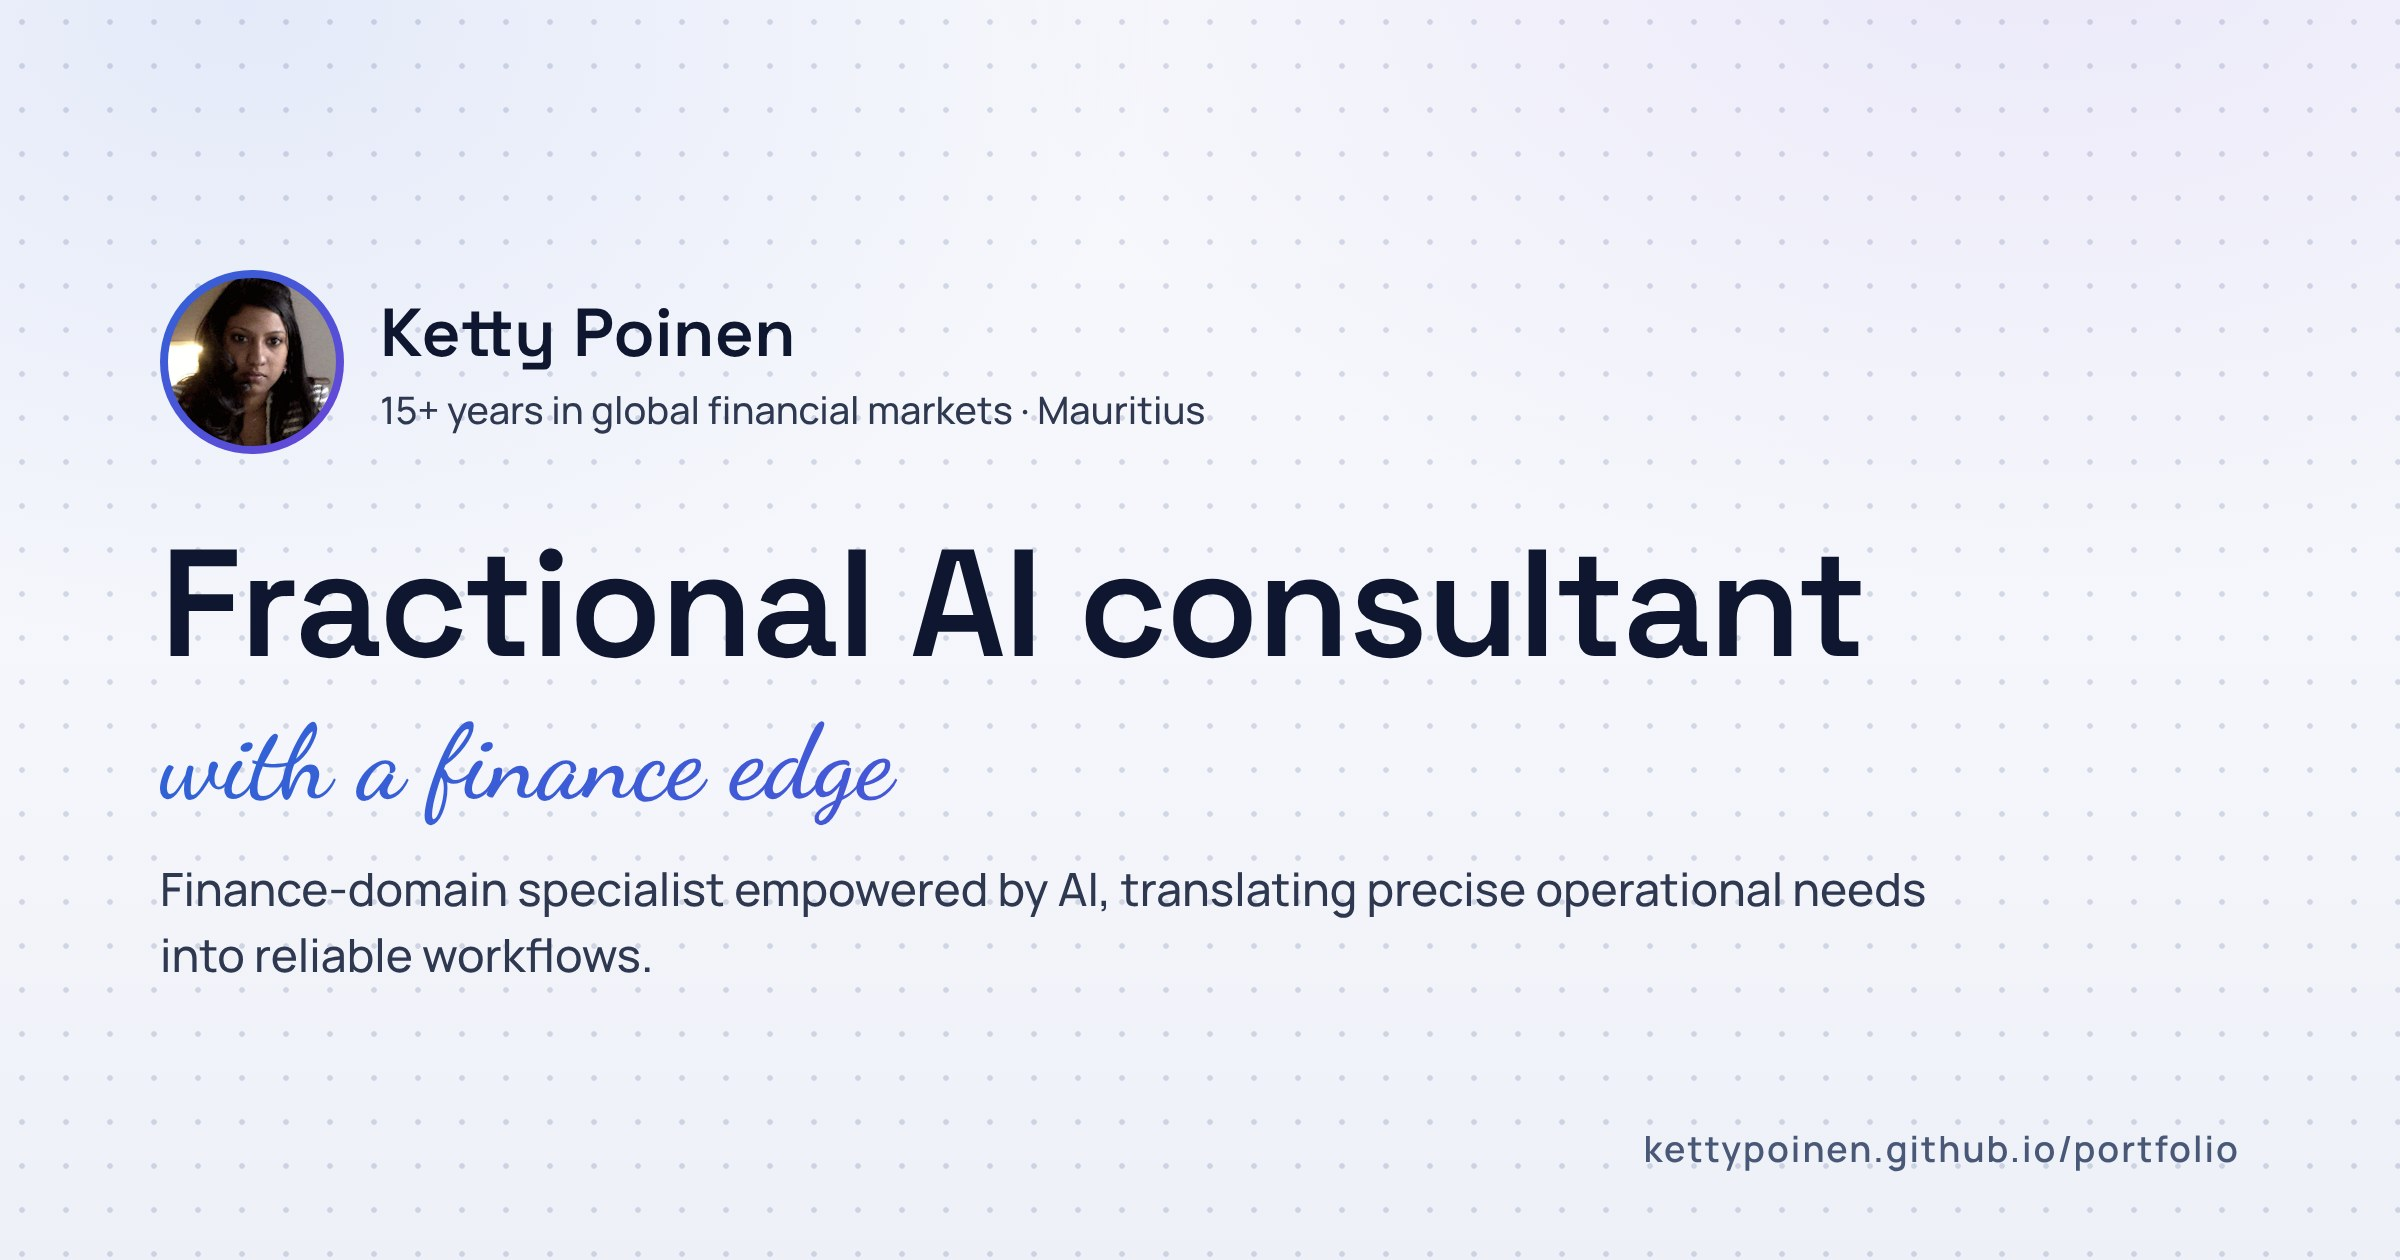
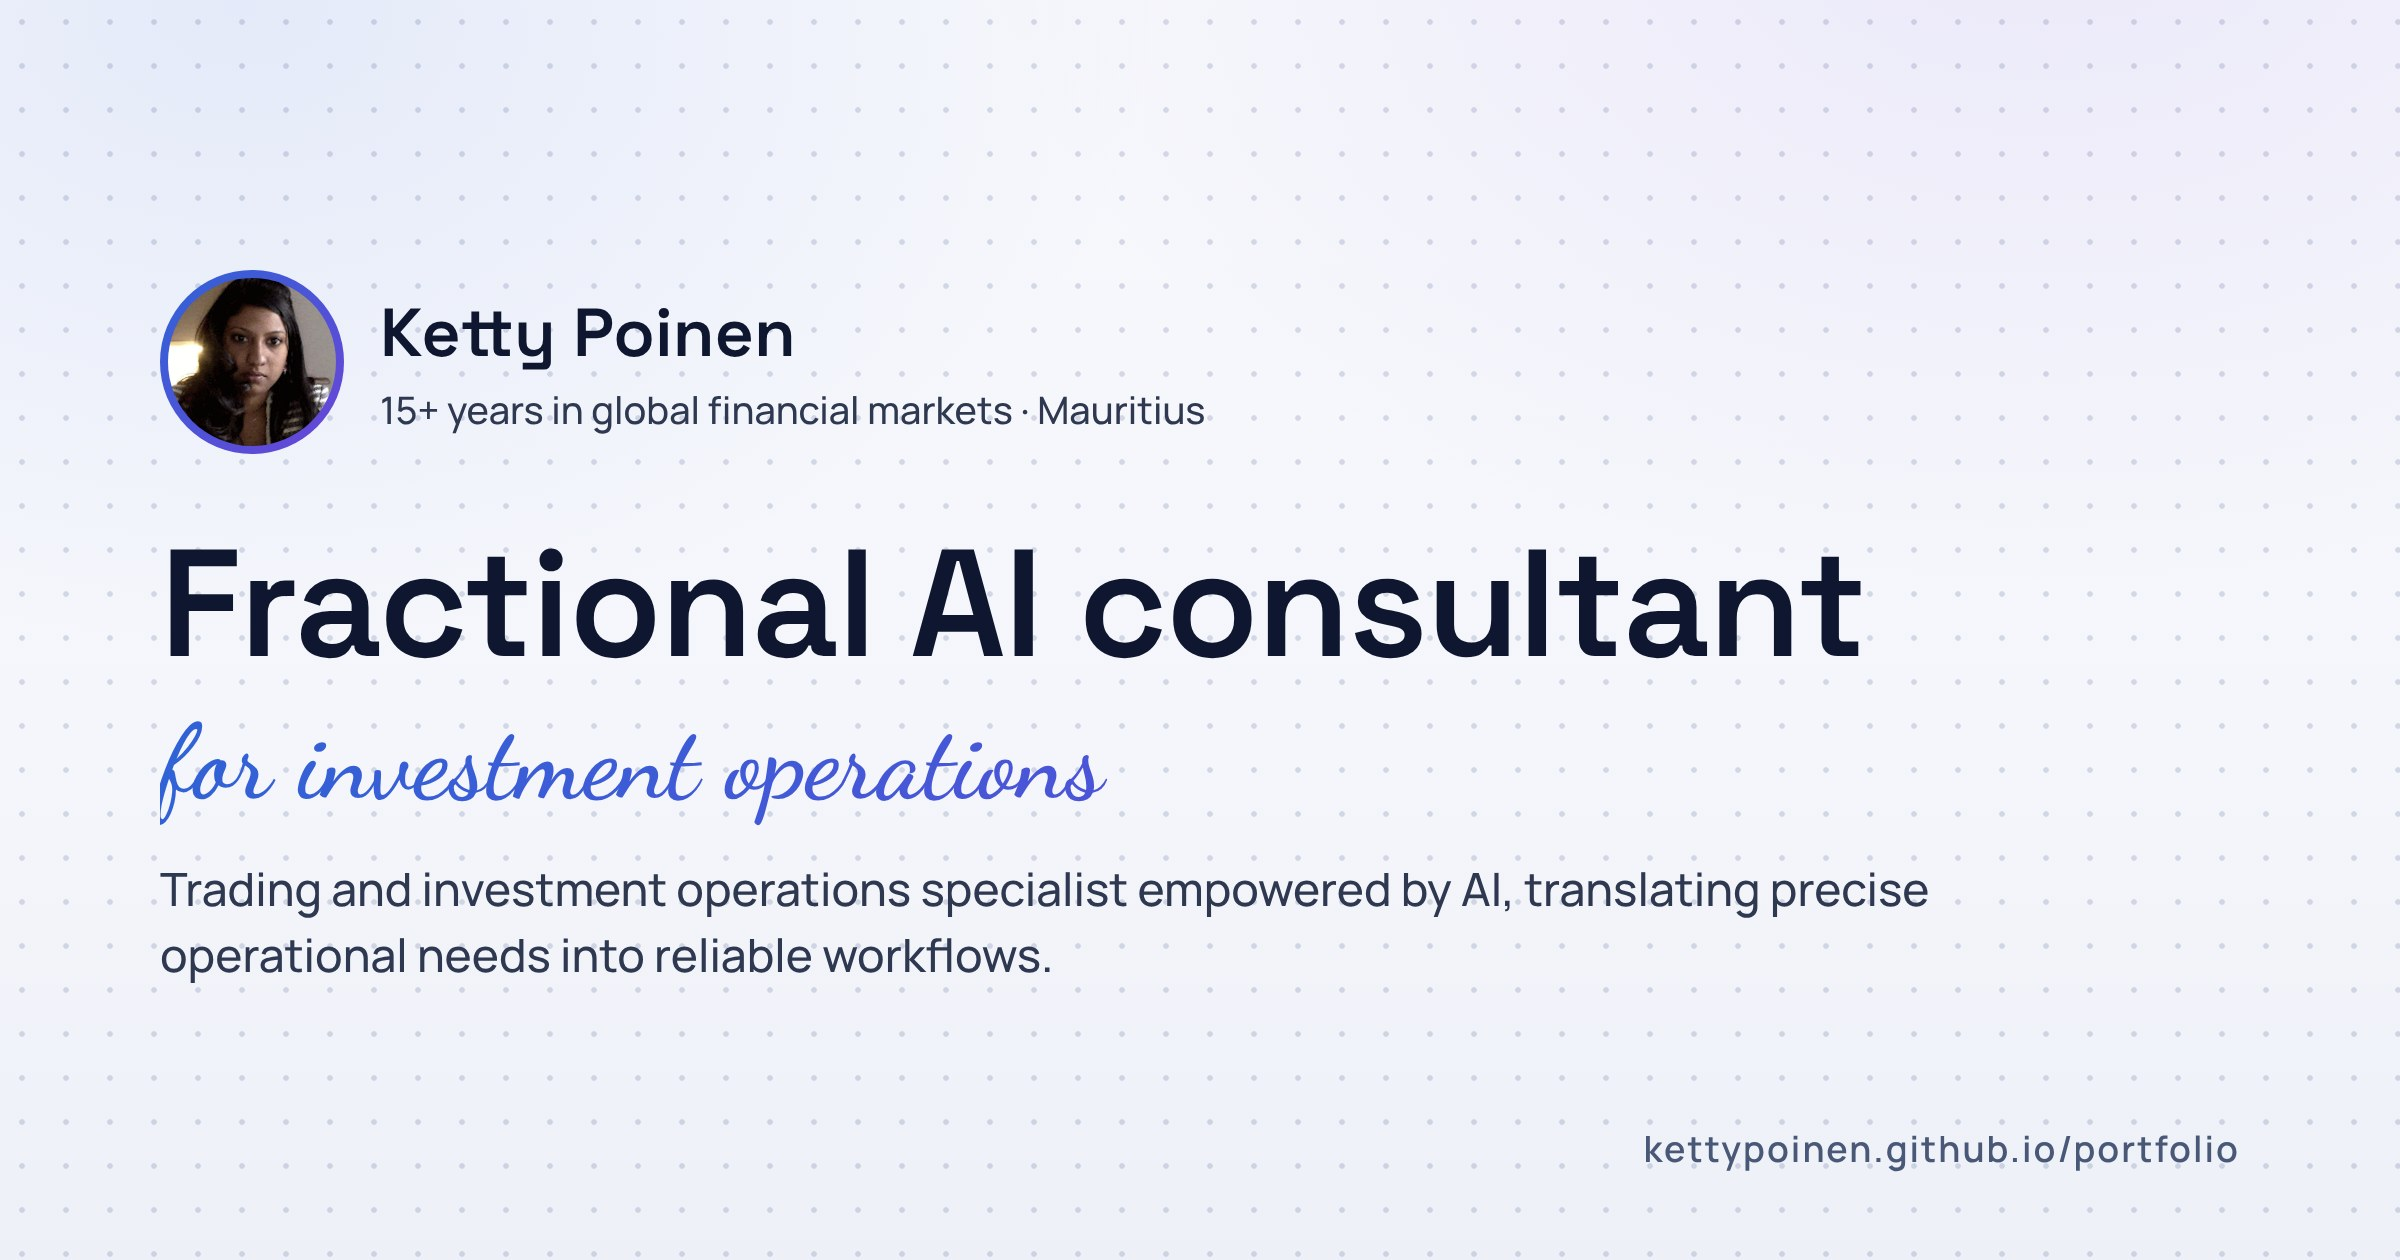
Reposition on investment operations instead of "finance"
- Hero: "Fractional AI consultant / for investment operations"; subline names trading and investment operations
- Section titles: "Builds for trading, investment and payments workflows" and "Investment Operations x AI"
- What I bring: "The trade lifecycle, first-hand."
- Tab title, Google and share-preview text, search data, /light page and thank-you page updated to match
- Dark and light share images remade with the new headline
- Script line gets a taller line box so the tail of the f is no longer clipped in Safari

Claude-Session: https://claude.ai/code/session_01W985EbHYUwzDVtV5LiYetL

Changed region(s): [[0.0625, 0.681, 0.8125, 0.7738], [0.0625, 0.5571, 0.4688, 0.65]]

diff --git a/index.html b/index.html
@@ -3,23 +3,23 @@
 <head>
 <meta charset="utf-8">
 <meta name="viewport" content="width=device-width, initial-scale=1, viewport-fit=cover">
-<title>Ketty Poinen · AI for financial workflows</title>
-<meta name="description" content="Ketty Poinen, fractional AI consultant for financial firms: 15+ years in trade execution and investment operations, now building reliable AI workflows.">
+<title>Ketty Poinen · AI for investment workflows</title>
+<meta name="description" content="Ketty Poinen, fractional AI consultant for investment and trading firms: 15+ years in trade execution and investment operations, now building reliable AI workflows.">
 <meta name="author" content="Ketty Poinen">
 <meta name="google-site-verification" content="49rioOYLQ7e49KPLcGNPdiEZJiLtNaxYbbQbI4A1nBM">
 <meta property="og:type" content="website">
-<meta property="og:title" content="Ketty Poinen · Fractional AI consultant with a finance edge">
-<meta property="og:description" content="15+ years in trade execution and investment operations, now building reliable AI workflows for financial firms.">
+<meta property="og:title" content="Ketty Poinen · Fractional AI consultant for investment operations">
+<meta property="og:description" content="15+ years in trade execution and investment operations, now building reliable AI workflows for investment and trading firms.">
 <meta name="twitter:card" content="summary_large_image">
 <link rel="canonical" href="https://kettypoinen.github.io/portfolio/">
 <meta property="og:url" content="https://kettypoinen.github.io/portfolio/">
 <meta property="og:image" content="https://kettypoinen.github.io/portfolio/assets/share.jpg">
 <meta property="og:image:width" content="2400">
 <meta property="og:image:height" content="1260">
-<meta property="og:image:alt" content="Ketty Poinen, fractional AI consultant with a finance edge">
+<meta property="og:image:alt" content="Ketty Poinen, fractional AI consultant for investment operations">
 <meta name="twitter:image" content="https://kettypoinen.github.io/portfolio/assets/share.jpg">
 <script type="application/ld+json">
-{"@context":"https://schema.org","@type":"Person","name":"Ketty Poinen","jobTitle":"Fractional AI consultant","description":"Fractional AI consultant for financial firms: 15+ years in trade execution and investment operations, now building reliable AI workflows.","url":"https://kettypoinen.github.io/portfolio/","image":"https://kettypoinen.github.io/portfolio/assets/profile.jpg","address":{"@type":"PostalAddress","addressCountry":"MU"},"knowsLanguage":["en","fr"],"sameAs":["https://www.linkedin.com/in/kettypoinen/","https://github.com/kettypoinen"]}
+{"@context":"https://schema.org","@type":"Person","name":"Ketty Poinen","jobTitle":"Fractional AI consultant","description":"Fractional AI consultant for investment and trading firms: 15+ years in trade execution and investment operations, now building reliable AI workflows.","url":"https://kettypoinen.github.io/portfolio/","image":"https://kettypoinen.github.io/portfolio/assets/profile.jpg","address":{"@type":"PostalAddress","addressCountry":"MU"},"knowsLanguage":["en","fr"],"sameAs":["https://www.linkedin.com/in/kettypoinen/","https://github.com/kettypoinen"]}
 </script>
 <link rel="icon" type="image/svg+xml" href="assets/favicon.svg">
 <link rel="preconnect" href="https://fonts.googleapis.com">
@@ -101,7 +101,8 @@ body::before{content:"";position:fixed;inset:0 0 auto;height:max(8px,env(safe-ar
 .eyebrow{display:inline-flex;align-items:center;gap:10px;padding:7px 15px;border-radius:999px;border:1px solid var(--line);background:var(--eyebrow-bg);font-size:12.5px;line-height:1.3;letter-spacing:2px;text-transform:uppercase;color:var(--label);font-weight:600}
 .eyebrow i{width:6px;height:6px;border-radius:50%;background:var(--blue);box-shadow:0 0 10px 2px var(--glow);flex:none}
 /* the specialty, handwritten under the heading */
-.edge{margin-top:-20px;padding:0 .15em .22em;margin-bottom:-.22em;font:600 clamp(25.2px,3.15vw,33.6px)/1.1 'Dancing Script',cursive;background:var(--grad);-webkit-background-clip:text;background-clip:text;color:transparent}
+/* taller line box and extra padding so the script's loops and tails (the f, g, p) are never clipped, Safari included; margins keep the position */
+.edge{margin-top:calc(-20px - .2em);padding:0 .3em .3em;margin-bottom:-.5em;font:600 clamp(25.2px,3.15vw,33.6px)/1.5 'Dancing Script',cursive;background:var(--grad);-webkit-background-clip:text;background-clip:text;color:transparent}
 .tagline{margin-top:4px;max-width:40em;color:var(--tag);font-size:clamp(17px,2vw,20px);line-height:1.5;text-align:center}
 
 /* shared bits */
@@ -265,8 +266,8 @@ dialog::backdrop{background:var(--backdrop);backdrop-filter:blur(6px)}
   <section class="intro">
     <span class="eyebrow"><i aria-hidden="true"></i>15+Yrs Global Financial Markets | FinTech Consulting | DeFi Practitioner | AI Workflow Builder<i aria-hidden="true"></i></span>
     <h1>Fractional AI consultant</h1>
-    <p class="edge">with a finance edge</p>
-    <p class="tagline">I am the finance-domain specialist empowered by AI<br>who translates precise operational needs into reliable workflows.</p>
+    <p class="edge">for investment operations</p>
+    <p class="tagline">I am the trading and investment operations specialist empowered by AI,<br>who translates precise operational needs into reliable workflows.</p>
   </section>
 
   <section class="sec" aria-labelledby="skills-h">
@@ -283,7 +284,7 @@ dialog::backdrop{background:var(--backdrop);backdrop-filter:blur(6px)}
   </section>
 
   <section class="sec" aria-labelledby="more-h">
-    <h2 id="more-h">Builds for financial workflows</h2>
+    <h2 id="more-h">Builds for trading, investment and payments workflows</h2>
     <div class="grid">
       <article class="card">
         <div class="shot"><img loading="lazy" src="assets/shots/wheel-cover.jpg" alt="Tasty Wheel cover: the options wheel of cash-secured puts, assignment and covered calls, Telegram alerts on the left, and a rules and risk gate before execution, with an AI narrator that only explains"><span>Hackathon video cover</span></div>
@@ -375,12 +376,12 @@ dialog::backdrop{background:var(--backdrop);backdrop-filter:blur(6px)}
   </section>
 
   <section class="sec" aria-labelledby="offer-h">
-    <h2 id="offer-h">Finance x AI</h2>
+    <h2 id="offer-h">Investment Operations x AI</h2>
     <div class="two">
       <div class="panel">
         <span class="kicker">What I bring</span>
         <ul>
-          <li><b>Financial operations, first-hand.</b> 15+ years in trade execution, investment operations and UCITS funds: I know the hand-offs, exceptions and controls technology must handle.</li>
+          <li><b>The trade lifecycle, first-hand.</b> 15+ years in trade execution, investment operations and UCITS funds: I know the hand-offs, exceptions and controls technology must handle.</li>
           <li><b>Traditional and decentralised finance.</b> Grounded in traditional markets, active in DeFi, and following developments in real-world asset (RWA) tokenisation.</li>
           <li><b>A bridge between business and technology.</b> Operational needs become specs and test scenarios, and nothing ships until it passes acceptance testing.</li>
         </ul>

diff --git a/light/index.html b/light/index.html
@@ -3,18 +3,18 @@
 <head>
 <meta charset="utf-8">
 <meta name="viewport" content="width=device-width, initial-scale=1">
-<title>Ketty Poinen · AI for financial workflows</title>
+<title>Ketty Poinen · AI for investment workflows</title>
 <meta name="author" content="Ketty Poinen">
-<meta name="description" content="Ketty Poinen, fractional AI consultant for financial firms: 15+ years in trade execution and investment operations, now building reliable AI workflows.">
+<meta name="description" content="Ketty Poinen, fractional AI consultant for investment and trading firms: 15+ years in trade execution and investment operations, now building reliable AI workflows.">
 <!-- Share link for the light version: previews show the light image, visitors are sent on to the page in light mode -->
 <meta property="og:type" content="website">
-<meta property="og:title" content="Ketty Poinen · Fractional AI consultant with a finance edge">
-<meta property="og:description" content="15+ years in trade execution and investment operations, now building reliable AI workflows for financial firms.">
+<meta property="og:title" content="Ketty Poinen · Fractional AI consultant for investment operations">
+<meta property="og:description" content="15+ years in trade execution and investment operations, now building reliable AI workflows for investment and trading firms.">
 <meta property="og:url" content="https://kettypoinen.github.io/portfolio/light/">
 <meta property="og:image" content="https://kettypoinen.github.io/portfolio/assets/share-light.jpg">
 <meta property="og:image:width" content="2400">
 <meta property="og:image:height" content="1260">
-<meta property="og:image:alt" content="Ketty Poinen, fractional AI consultant with a finance edge">
+<meta property="og:image:alt" content="Ketty Poinen, fractional AI consultant for investment operations">
 <meta name="twitter:card" content="summary_large_image">
 <meta name="twitter:image" content="https://kettypoinen.github.io/portfolio/assets/share-light.jpg">
 <link rel="icon" type="image/svg+xml" href="../assets/favicon.svg">

diff --git a/thanks.html b/thanks.html
@@ -39,7 +39,7 @@ a:focus-visible{outline:3px solid var(--blue);outline-offset:2px}
 <body>
 <main>
   <img class="avatar" src="assets/profile.jpg" alt="Ketty Poinen">
-  <p class="who"><span class="nm">Ketty Poinen</span> <span class="tt">Fractional AI consultant with a finance edge</span></p>
+  <p class="who"><span class="nm">Ketty Poinen</span> <span class="tt">Fractional AI consultant for investment operations</span></p>
   <h1>Thank You</h1>
   <p class="msg">Your message is on its way to me.</p>
   <a class="back" href="index.html">Back to portfolio</a>
